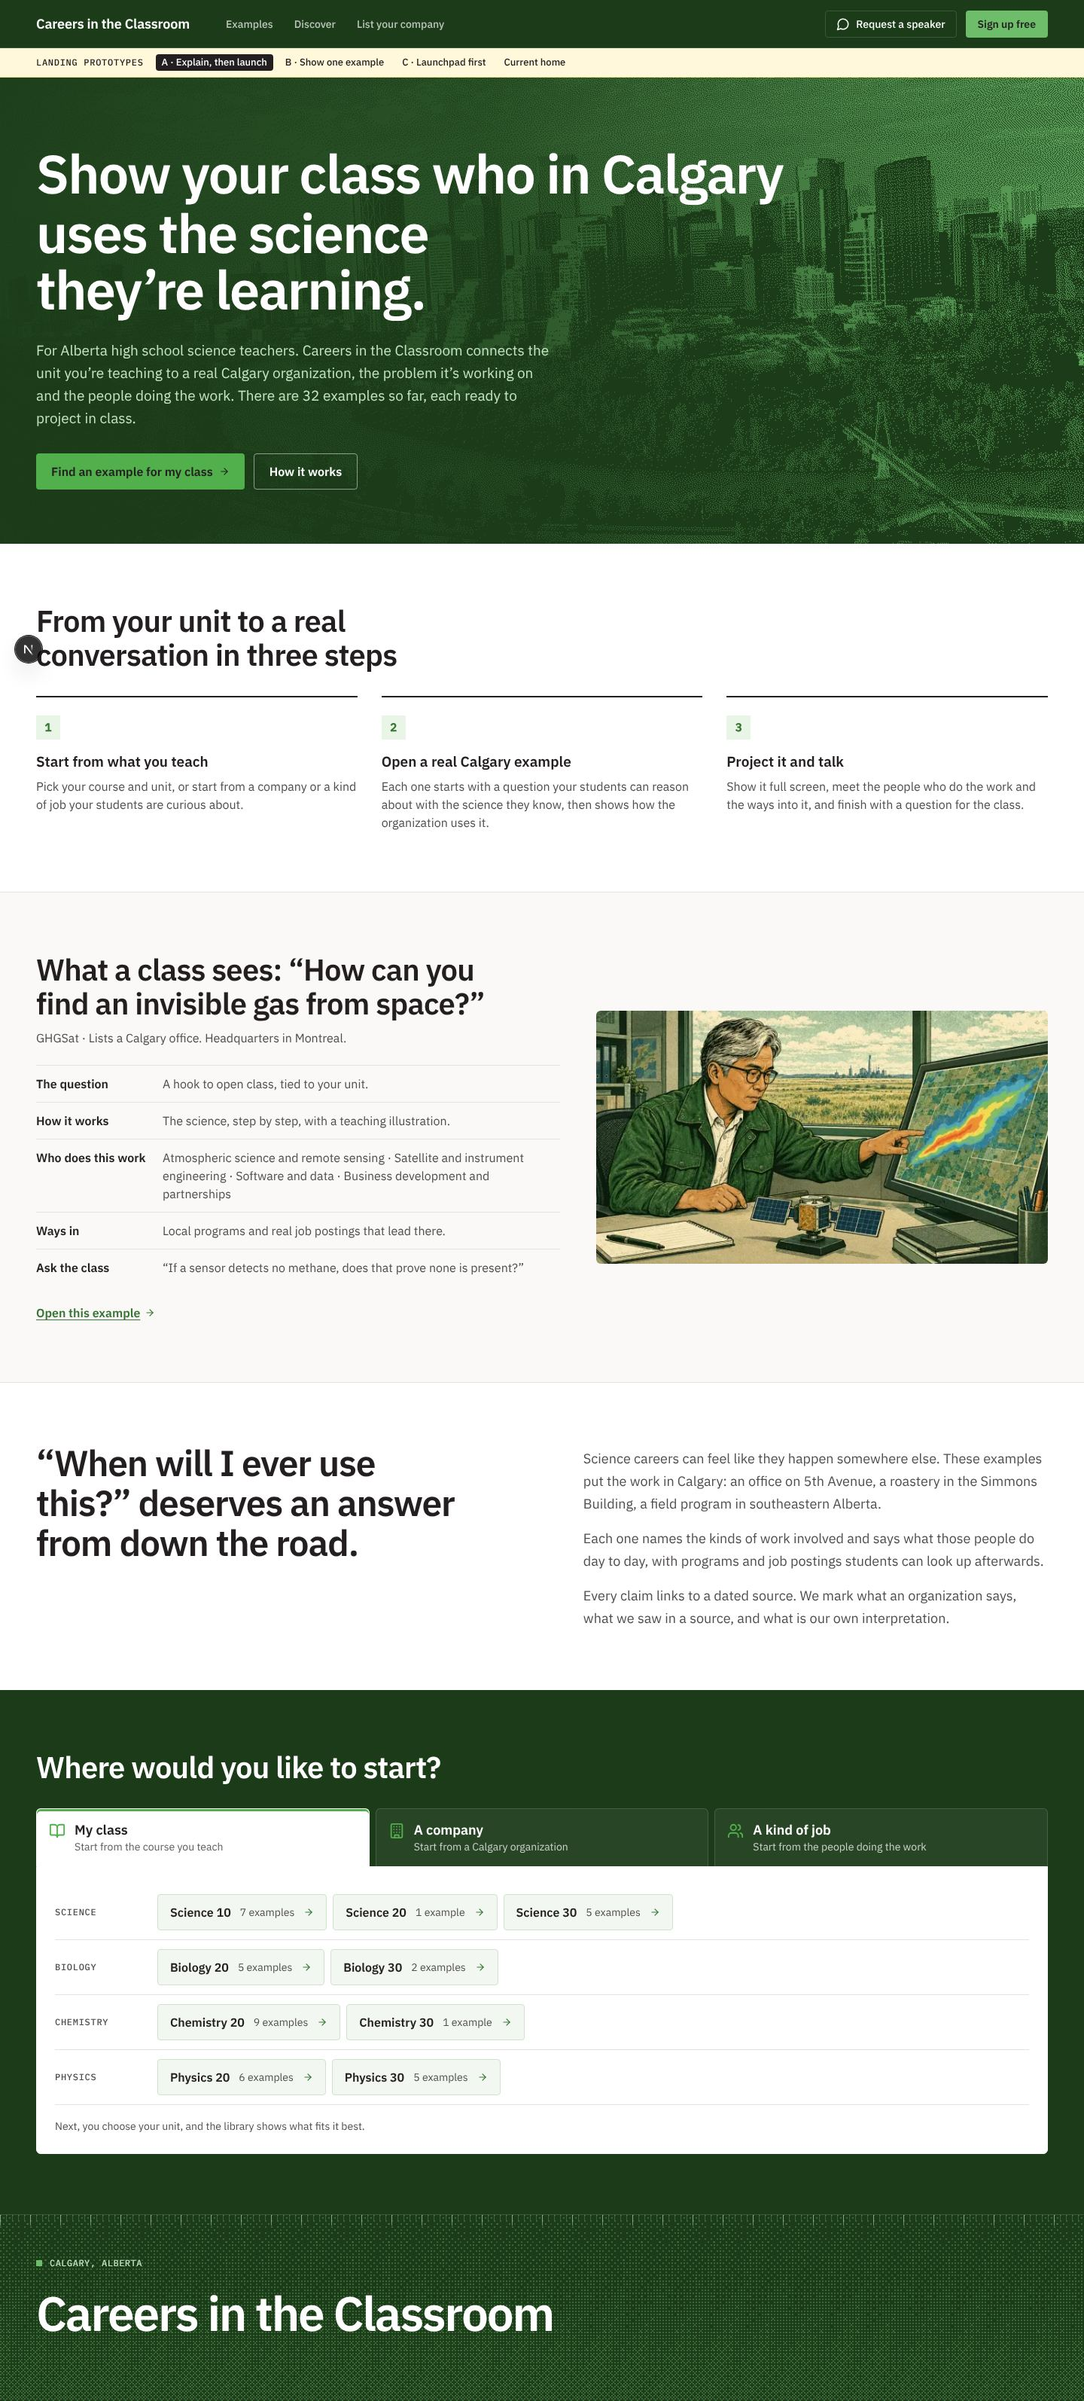
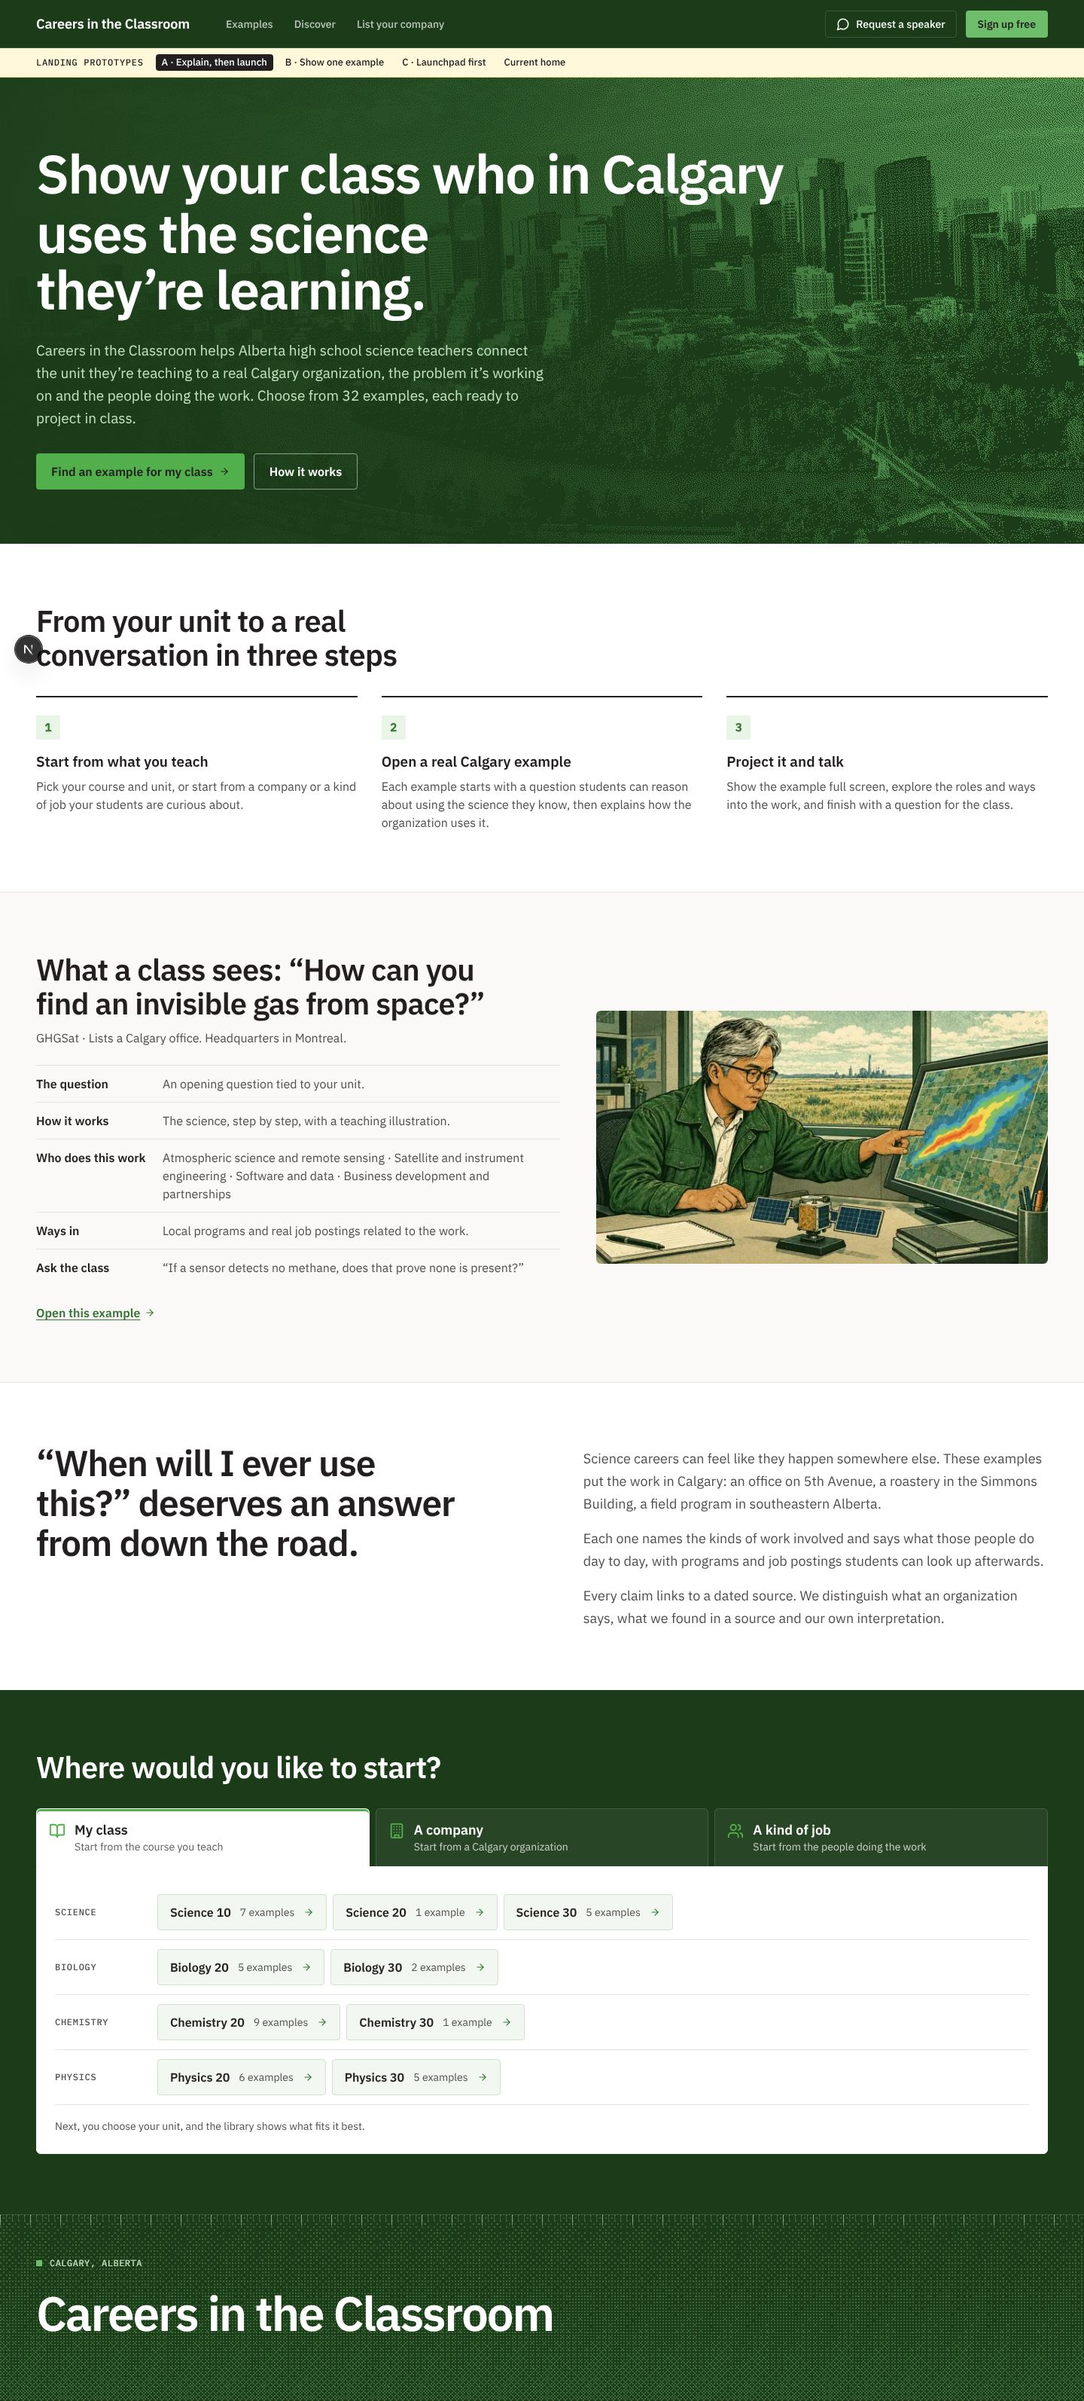
address astra plan review: exact role links, job posting context, C audience line
Claude-Session: https://claude.ai/code/session_01CCpq7ejrZxy44m76LMtAUb

diff --git a/src/app/landing/b/page.tsx b/src/app/landing/b/page.tsx
@@ -1,6 +1,8 @@
 import type { Metadata } from "next";
 import Link from "next/link";
-import { getJob, getPathway } from "@/content";
+import { connection } from "next/server";
+import { getJob, getOrganization, getPathway } from "@/content";
+import { jobStatusLabel } from "@/lib/job-status";
 import { Icon } from "@/components/Icon";
 import methane from "../../../../public/images/story-diagrams/methane-graphic-novel.webp";
 import owls from "../../../../public/images/story-diagrams/owl-recovery-graphic-novel.webp";
@@ -15,8 +17,10 @@ export const metadata: Metadata = { title: "Landing B · Show one example" };
 
 const diagrams = { ghgsat: methane, "wilder-institute": owls, "e3-lithium": lithium } as const;
 
-function walk(slug: keyof typeof diagrams): WalkExample {
+function walk(slug: keyof typeof diagrams, today: string): WalkExample {
   const { example: e, details, image, roles } = getLandingExample(slug);
+  // "Elsewhere" means a different employer from the featured organization; relevance is geographic and says nothing about that.
+  const orgName = (details ? getOrganization(details.organizationId)?.name : undefined) ?? e.org;
   return {
     slug,
     org: e.org,
@@ -29,15 +33,23 @@ function walk(slug: keyof typeof diagrams): WalkExample {
     steps: details?.story.steps.map((s) => s.text) ?? [],
     roles: roles.map((r) => ({ title: r.title, summary: r.summary })),
     pathways: (details?.pathwayIds ?? []).map(getPathway).flatMap((p) => (p ? [{ name: p.name, provider: p.provider }] : [])),
-    jobs: (details?.jobIds ?? []).map(getJob).flatMap((j) => (j ? [{ title: j.title, employer: j.employer }] : [])),
+    // Saved postings keep their status, place and whether another employer posted them, as on the full example.
+    jobs: (details?.jobIds ?? []).map(getJob).flatMap((j) =>
+      j
+        ? [{ title: j.title, employer: j.employer, location: j.location, elsewhere: j.employer.trim().toLowerCase() !== orgName.trim().toLowerCase(), status: jobStatusLabel(j, today) }]
+        : [],
+    ),
     prompt: e.prompt,
   };
 }
 
 // Prototype B: show, don't tell. The page opens on a working miniature of one example, so a
 // newcomer understands the product by using it, then picks a way into the library.
-export default function LandingB() {
-  const walks = [walk("ghgsat"), walk("wilder-institute"), walk("e3-lithium")];
+export default async function LandingB() {
+  // Job status labels depend on today's date, so render per request rather than freezing them at build time.
+  await connection();
+  const today = new Date().toISOString().slice(0, 10);
+  const walks = [walk("ghgsat", today), walk("wilder-institute", today), walk("e3-lithium", today)];
 
   return (
     <div className={styles.landing}>
@@ -86,8 +98,7 @@ export default function LandingB() {
             <div>
               <dt>Where does the information come from?</dt>
               <dd>
-                From each organization’s own pages and other dated public sources. Every claim links to its source, and we
-                mark what is our interpretation.
+                From each organization’s own pages and other dated public sources. Every claim links to its source, and we label our interpretations.
               </dd>
             </div>
             <div>
@@ -99,7 +110,7 @@ export default function LandingB() {
             <div>
               <dt>Can someone from the company visit?</dt>
               <dd>
-                That’s the goal. Use Request a speaker at the top of any page to tell us who you’d like to hear from.
+                We’re working towards classroom visits and talks. Use Request a speaker at the top of any page to tell us who you’d like to hear from.
               </dd>
             </div>
           </dl>

diff --git a/src/app/landing/a/page.tsx b/src/app/landing/a/page.tsx
@@ -32,9 +32,9 @@ export default function LandingA() {
             </span>
           </h1>
           <p className={styles.heroLede}>
-            For Alberta high school science teachers. Careers in the Classroom connects the unit you’re teaching to a real
-            Calgary organization, the problem it’s working on and the people doing the work. There are {stats.examples}{" "}
-            examples so far, each ready to project in class.
+            Careers in the Classroom helps Alberta high school science teachers connect the unit they’re teaching to a real
+            Calgary organization, the problem it’s working on and the people doing the work. Choose from {stats.examples}{" "}
+            examples, each ready to project in class.
           </p>
           <div className={styles.ctaRow}>
             <a href="#start" className={styles.ctaPrimary}>
@@ -62,7 +62,7 @@ export default function LandingA() {
               <span className={styles.stepNum}>2</span>
               <h3 className={styles.h3}>Open a real Calgary example</h3>
               <p>
-                Each one starts with a question your students can reason about with the science they know, then shows how
+                Each example starts with a question students can reason about using the science they know, then explains how
                 the organization uses it.
               </p>
             </li>
@@ -70,7 +70,7 @@ export default function LandingA() {
               <span className={styles.stepNum}>3</span>
               <h3 className={styles.h3}>Project it and talk</h3>
               <p>
-                Show it full screen, meet the people who do the work and the ways into it, and finish with a question for the
+                Show the example full screen, explore the roles and ways into the work, and finish with a question for the
                 class.
               </p>
             </li>
@@ -90,7 +90,7 @@ export default function LandingA() {
             <dl className={styles.parts}>
               <div>
                 <dt>The question</dt>
-                <dd>A hook to open class, tied to your unit.</dd>
+                <dd>An opening question tied to your unit.</dd>
               </div>
               <div>
                 <dt>How it works</dt>
@@ -102,7 +102,7 @@ export default function LandingA() {
               </div>
               <div>
                 <dt>Ways in</dt>
-                <dd>Local programs and real job postings that lead there.</dd>
+                <dd>Local programs and real job postings related to the work.</dd>
               </div>
               <div>
                 <dt>Ask the class</dt>
@@ -136,8 +136,8 @@ export default function LandingA() {
               postings students can look up afterwards.
             </p>
             <p>
-              Every claim links to a dated source. We mark what an organization says, what we saw in a source, and what is
-              our own interpretation.
+              Every claim links to a dated source. We distinguish what an organization says, what we found in a source and our own
+              interpretation.
             </p>
           </div>
         </div>

diff --git a/src/app/landing/b/Walkthrough.tsx b/src/app/landing/b/Walkthrough.tsx
@@ -18,12 +18,12 @@ export interface WalkExample {
   steps: string[];
   roles: { title: string; summary: string }[];
   pathways: { name: string; provider: string }[];
-  jobs: { title: string; employer: string }[];
+  jobs: { title: string; employer: string; location?: string; elsewhere: boolean; status: string }[];
   prompt: string;
 }
 
 const parts = [
-  { id: "question", label: "The question", gives: "A hook for the first five minutes, tied to the unit you’re on." },
+  { id: "question", label: "The question", gives: "An opening question to start the lesson, tied to your unit." },
   { id: "how", label: "How it works", gives: "The science your students know, applied to the organization’s real problem." },
   { id: "who", label: "Who does this work", gives: "The kinds of people involved and what they actually do all day." },
   { id: "ways", label: "Ways in", gives: "Programs in Calgary and Alberta, and real job postings, that lead to this work." },
@@ -120,11 +120,16 @@ export function Walkthrough({ examples }: { examples: WalkExample[] }) {
                   </ul>
                 </div>
                 <div>
-                  <p className={styles.screenSub}>Real job postings</p>
+                  <p className={styles.screenSub}>Saved job postings</p>
                   <ul className={styles.screenList}>
                     {e.jobs.slice(0, 4).map((x) => (
                       <li key={x.title + x.employer}>
                         <strong>{x.title}</strong> · {x.employer}
+                        {x.elsewhere && <span className={styles.screenTag}>Another employer</span>}
+                        <span className={styles.screenFine}>
+                          {x.location ? `${x.location} · ` : ""}
+                          {x.status}
+                        </span>
                       </li>
                     ))}
                     {e.jobs.length === 0 && <li>None saved for this example yet.</li>}

diff --git a/src/app/landing/about/page.tsx b/src/app/landing/about/page.tsx
@@ -22,8 +22,7 @@ export default function About() {
         <h2 className={styles.aboutH2}>What it is</h2>
         <p>
           A library of {stats.examples} short, sourced examples for Alberta high school science. Each one connects a unit you
-          teach to a real Calgary organization, the problem it is working on, the people who do that work, and the programs
-          and job postings that lead there.
+          teach to a real Calgary organization, the problem it is working on, the people who do that work, and related programs and job postings.
         </p>
 
         <h2 className={styles.aboutH2}>Why it matters</h2>
@@ -42,7 +41,7 @@ export default function About() {
         </ol>
 
         <h2 className={styles.aboutH2}>How we research</h2>
-        <p>Every claim links to a dated source and carries a tag that says how sure we are:</p>
+        <p>Every claim links to a dated source and carries a tag explaining its basis:</p>
         <ul className={styles.aboutTags}>
           <li>
             <EvidenceTag kind="stated">Stated</EvidenceTag> The organization says it on its own pages.
@@ -58,7 +57,7 @@ export default function About() {
 
         <h2 className={styles.aboutH2}>Where it’s going</h2>
         <p>
-          We’re talking with teachers now about what helps in class. Next comes connecting classrooms with the people in these
+          We’re talking with teachers now about what helps in class. Next, we plan to connect classrooms with the people in these
           examples for visits and talks. Organizations can <Link href="/get-involved">list themselves</Link>.
         </p>
 

diff --git a/src/app/landing/c/page.tsx b/src/app/landing/c/page.tsx
@@ -27,8 +27,9 @@ export default function LandingC() {
               Real Calgary work, matched to the science you teach.
             </h1>
             <p className={styles.heroCLede}>
-              {stats.examples} classroom-ready examples from {stats.companies} organizations. Start from your class, a company,
-              or a kind of job.
+              For Alberta high school science teachers: {stats.examples} examples from {stats.companies} Calgary organizations
+              that you open, project in class and finish with a discussion question. Start from your class, a company, or a
+              kind of job.
             </p>
             <Doors courses={courseDoors} companies={companyDoors} roles={roleDoors} tone="dark" />
           </div>
@@ -39,10 +40,10 @@ export default function LandingC() {
             </h2>
             <ol className={styles.primerSteps}>
               <li>
-                <strong>Pick a starting point.</strong> Your course and unit, a company, or a job.
+                <strong>Pick a starting point.</strong> Choose your course and unit, a company, or a kind of job.
               </li>
               <li>
-                <strong>Open an example.</strong> A question, the science behind the work, and the people doing it.
+                <strong>Open an example.</strong> Explore a question, the science behind the work, and the people doing it.
               </li>
               <li>
                 <strong>Show your class.</strong> Project it full screen and finish with a discussion question.

diff --git a/src/app/landing/Doors.tsx b/src/app/landing/Doors.tsx
@@ -132,22 +132,19 @@ export function Doors({
             {roles.map((r) => (
               <li key={r.id} className={styles.roleRow}>
                 <div className={styles.roleText}>
-                  <Link href={r.href} className={styles.roleTitle}>
-                    {r.title}
-                  </Link>
+                  <p className={styles.roleTitle}>{r.title}</p>
                   <p className={styles.roleSummary}>{r.summary}</p>
                 </div>
                 <p className={styles.roleWhere}>
                   <span className={styles.roleWhereLabel}>
                     {r.examples.length} example{r.examples.length === 1 ? "" : "s"}
                   </span>
-                  {r.examples.slice(0, 3).map((e, i) => (
+                  {r.examples.map((e, i) => (
                     <span key={e.slug}>
                       {i > 0 && ", "}
                       <Link href={`/examples/${e.slug}`}>{e.org}</Link>
                     </span>
                   ))}
-                  {r.examples.length > 3 && <span> and {r.examples.length - 3} more</span>}
                 </p>
               </li>
             ))}

diff --git a/src/app/landing/landing.module.css b/src/app/landing/landing.module.css
@@ -636,6 +636,7 @@
 
 .roleTitle {
   font: 600 17px/24px var(--font-display);
+  margin: 0;
   color: var(--text);
 }
 
@@ -875,6 +876,23 @@
 .screenList li {
   padding: var(--space-2) 0;
   border-bottom: 1px solid var(--border);
+}
+
+.screenTag {
+  margin-left: 8px;
+  padding: 0 6px;
+  border: 1px dashed var(--border-green);
+  border-radius: var(--radius-control);
+  font: 500 11px/18px var(--font-mono);
+  color: var(--text-accent);
+  white-space: nowrap;
+}
+
+.screenFine {
+  display: block;
+  font-size: 13px;
+  line-height: 18px;
+  color: var(--text-body);
 }
 
 .screenList strong {

diff --git a/src/app/landing/data.ts b/src/app/landing/data.ts
@@ -28,8 +28,8 @@ export interface RoleDoor {
   id: string;
   title: string;
   summary: string;
+  /** Exactly the examples whose details list this role; the row links to each one. */
   examples: { slug: string; org: string }[];
-  href: string;
 }
 
 const monogram = (name: string) =>
@@ -73,7 +73,6 @@ export const roleDoors: RoleDoor[] = roleProfiles
       title: r.title,
       summary: r.summary,
       examples: linked.map((e) => ({ slug: e.slug, org: e.org })),
-      href: `/?topic=${encodeURIComponent(r.title)}#library`,
     };
   })
   .filter((r) => r.examples.length > 0)

diff --git a/docs/design/reviews/2026-10-18-landing/PLAN.md b/docs/design/reviews/2026-10-18-landing/PLAN.md
@@ -11,9 +11,15 @@ company or kind of job.
 
 - `/` (the current library home) is unchanged. Prototypes live under `/landing`, `/landing/a`, `/landing/b`,
   `/landing/c` and `/landing/about`, with a review bar to switch between them.
-- Each prototype states who it is for, what the product is, and how a teacher uses it, above or near the fold.
+- Each prototype states who it is for, what the product is, and how a teacher uses it, above or near the fold, including
+  at 390px wide (C says so in its hero lede, before the launchpad).
+- Any job posting shown outside the full example keeps the context the full example gives it: its status label from
+  `jobStatusLabel` (historical, closed or accepting applications when checked), computed at request time (the page
+  calls `connection()` so a build does not freeze it), its location, and an "Another employer" marker decided by
+  comparing the posting's employer with the featured organization's name (not by geographic relevance).
 - Each offers three ways in: course (links to `/?course=<id>#library`), company (links to `/examples/<slug>`) and kind
-  of job (links to `/?topic=<role title>#library`). They only link; search and filtering are being redesigned in a
+  of job (lists and links to exactly the examples whose details include that role; no free-text search, which is
+  broader than the role). They only link; search and filtering are being redesigned in a
   separate thread and must not be changed here.
 - All counts and names come from existing content records (`src/content`), so they cannot disagree with the library.
 - No invented facts: no statistics, testimonials or time estimates that are not in the content or sourced.
@@ -63,7 +69,6 @@ the library moved to `/examples` if adopted.
 ## Risks
 
 - Only 3 of 32 organizations have a logo file; the company list leans on monograms.
-- Role links rely on the library's free-text topic search matching role titles.
 - Course counts are uneven (Chemistry 30, Science 20 and Biology 30 have one or two examples each).
 
 ## Verification

diff --git a/docs/design/reviews/2026-10-18-landing/README.md b/docs/design/reviews/2026-10-18-landing/README.md
@@ -61,3 +61,20 @@ Launchpad tabs: `doors-company.jpg`, `doors-role.jpg`. Walkthrough steps: `walk-
   the approved graphic-novel image direction and would be heavy on school Chromebooks and classroom projectors.
 
 The plan these prototypes follow is in `PLAN.md`.
+
+## Independent plan review (claudex-loop, GPT-6 Astra, high effort)
+
+`PLAN.md` was reviewed by Codex (requested model `gpt-6-astra`, effort high; the CLI did not report which model
+actually served it). It approved on round 3 of 5. Fixes made along the way:
+
+1. The "kind of job" tab linked each role to the library's free-text search, which also matches unrelated examples.
+   Each role now lists and links to exactly the examples that include it.
+2. B's walkthrough showed job postings without their status, location or employer context. It now shows the same
+   status label as the full example page, the location, and an "Another employer" tag.
+3. C didn't say who it is for before the launchpad on mobile. Its opening line now names the audience and how it's used.
+4. The "Another employer" tag was first based on geographic relevance; it now compares the posting's employer with
+   the featured organization.
+5. B's job statuses would have been frozen at build time; the page now renders per request.
+
+SlopMonster's second pass also ran through Codex. Its plainer wording was taken for step text, part labels, the FAQ
+and the About page; its generic replacement headlines were not.
